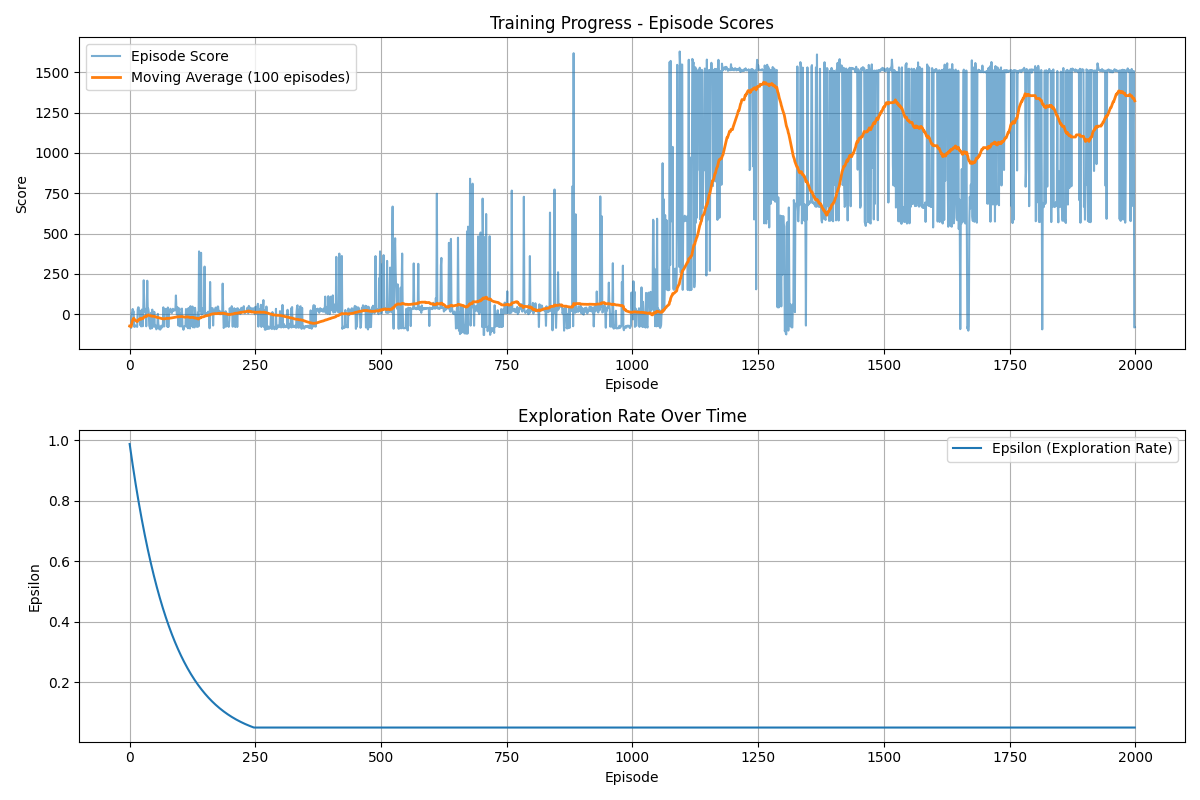
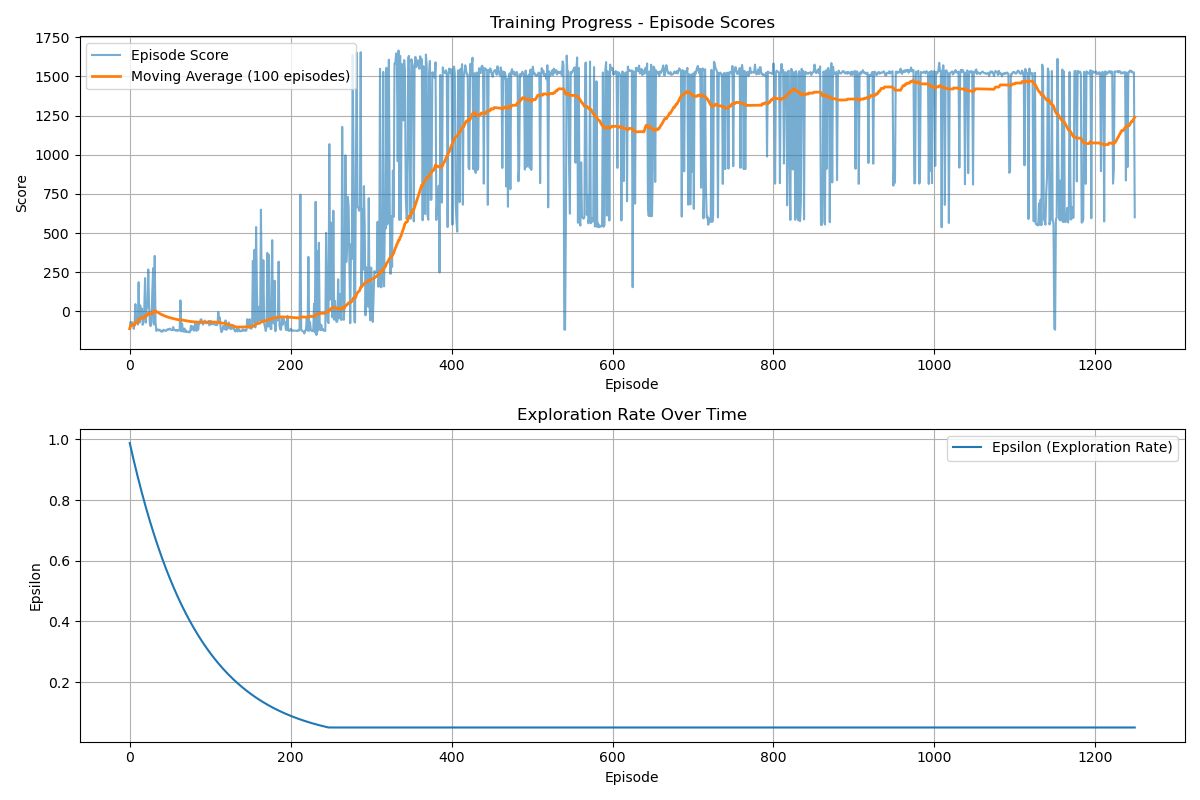
zebra crossing support

diff --git a/gym_crossroad_env.py b/gym_crossroad_env.py
@@ -48,6 +48,9 @@ class CrossroadGymEnv(gym.Env):
         self.step_count = 0
         self.last_distance_to_target = None
         self.collision_detected = False
+        # Zebra/crosswalk tracking
+        self.last_zebra_distance = None
+        self.steps_since_zebra_progress = 0
         
         # Roundabout/Sequential navigation state
         self.current_waypoint_index = 0
@@ -254,6 +257,53 @@ class CrossroadGymEnv(gym.Env):
         elif min_car_distance > 2.5:
             reward += 0.05  # Reduced from 0.2
 
+        # ---- 3b. ZEBRA / CROSSWALK SHAPING ----
+        # Encourage the agent to find and use zebra crossings when in the
+        # center intersection. If the agent is in the intersection and not on
+        # a zebra, give a small penalty but a shaping reward for progress
+        # toward the nearest zebra so it keeps moving to find one.
+        zebra_half_width = 1.8
+        intersection_center_size = 3.5
+        in_center = abs(agent_x) < intersection_center_size and abs(agent_y) < intersection_center_size
+        on_zebra = self._is_on_zebra(agent_pos)
+
+        if in_center:
+            if on_zebra:
+                # Reward staying on the zebra (keeps agent aligned while crossing)
+                reward += 0.5
+                reward += 0.02  # tiny survival/movement bonus while on zebra
+                # Clear zebra progress tracking
+                self.last_zebra_distance = None
+                self.steps_since_zebra_progress = 0
+            else:
+                # Off-zebra in center: encourage movement toward zebra, penalize idling
+                reward -= 0.20
+                if action == 0:
+                    reward -= 0.5
+
+                # Shaped reward: progress toward nearest zebra
+                dist_to_zebra = self._distance_to_nearest_zebra(agent_pos)
+                if self.last_zebra_distance is None:
+                    self.last_zebra_distance = dist_to_zebra
+                    self.steps_since_zebra_progress = 0
+                else:
+                    dz = self.last_zebra_distance - dist_to_zebra
+                    # Positive dz => getting closer to a zebra
+                    reward += dz * 6.0
+                    if dz > 0:
+                        self.steps_since_zebra_progress = 0
+                    else:
+                        self.steps_since_zebra_progress += 1
+                    self.last_zebra_distance = dist_to_zebra
+
+                # If no zebra progress for many steps, add a penalty to force turning
+                if self.steps_since_zebra_progress > 8:
+                    reward -= 0.2
+        else:
+            # Reset zebra tracking when outside center
+            self.last_zebra_distance = None
+            self.steps_since_zebra_progress = 0
+
         # ---- 4. WAYPOINT REACHED ----
         tolerance = PEDESTRIAN_CONFIG.get('waypoint_tolerance', 1.5)
         reached = dist_to_target < tolerance
@@ -342,6 +392,58 @@ class CrossroadGymEnv(gym.Env):
         
         return min_dist
 
+    def _is_on_zebra(self, pos):
+        """Return the zebra crossing name if `pos` is within a zebra area, else None.
+
+        Crosswalks are defined at x or y ~= +/-3.5 (see `config.py`). We use
+        a small band (`zebra_band_half`) around those lines and a half-width
+        (`zebra_half_width`) for the zebra width.
+        """
+        zebra_half_width = 1.8
+        zebra_band_half = 1.2
+        x, y = pos[0], pos[1]
+
+        # North
+        if (3.5 - zebra_band_half) <= y <= (3.5 + zebra_band_half) and abs(x) <= zebra_half_width:
+            return 'north'
+        # South
+        if (-3.5 - zebra_band_half) <= y <= (-3.5 + zebra_band_half) and abs(x) <= zebra_half_width:
+            return 'south'
+        # East
+        if (3.5 - zebra_band_half) <= x <= (3.5 + zebra_band_half) and abs(y) <= zebra_half_width:
+            return 'east'
+        # West
+        if (-3.5 - zebra_band_half) <= x <= (-3.5 + zebra_band_half) and abs(y) <= zebra_half_width:
+            return 'west'
+
+        return None
+
+    def _distance_to_nearest_zebra(self, pos):
+        """Compute Euclidean distance from `pos` to the nearest point on any zebra crossing."""
+        zebra_half_width = 1.8
+        x, y = pos[0], pos[1]
+        candidates = []
+
+        # North zebra (y = 3.5) — project x into zebra half width
+        nx = np.clip(x, -zebra_half_width, zebra_half_width)
+        candidates.append(((nx, 3.5), math.hypot(x - nx, y - 3.5)))
+
+        # South zebra (y = -3.5)
+        sx = np.clip(x, -zebra_half_width, zebra_half_width)
+        candidates.append(((sx, -3.5), math.hypot(x - sx, y + 3.5)))
+
+        # East zebra (x = 3.5)
+        ey = np.clip(y, -zebra_half_width, zebra_half_width)
+        candidates.append(((3.5, ey), math.hypot(x - 3.5, y - ey)))
+
+        # West zebra (x = -3.5)
+        wy = np.clip(y, -zebra_half_width, zebra_half_width)
+        candidates.append(((-3.5, wy), math.hypot(x + 3.5, y - wy)))
+
+        # Return minimum distance
+        dists = [c[1] for c in candidates]
+        return min(dists) if dists else float('inf')
+
     def step(self, action):
         """Execute action and return next state."""
         # Map action to movement
@@ -369,39 +471,16 @@ class CrossroadGymEnv(gym.Env):
         # Check if agent is in the center intersection area
         in_center = abs(new_pos[0]) < intersection_center_size and abs(new_pos[1]) < intersection_center_size
         
-        # if in_center:
-            # In center intersection - must stay on one of the zebra crossing paths
-            # Check which crossing path the agent is closest to
-            # dist_to_north = abs(new_pos[1] - 3.5)
-            # dist_to_south = abs(new_pos[1] + 3.5)
-            # dist_to_east = abs(new_pos[0] - 3.5)
-            # dist_to_west = abs(new_pos[0] + 3.5)
-            
-            # min_dist = min(dist_to_north, dist_to_south, dist_to_east, dist_to_west)
-            
-            # # Force agent onto the nearest zebra crossing path
-            # if min_dist == dist_to_north or min_dist == dist_to_south:
-            #     # On North/South path - constrain x to zebra width
-            #     new_pos[0] = np.clip(new_pos[0], -zebra_half_width, zebra_half_width)
-            # elif min_dist == dist_to_east or min_dist == dist_to_west:
-            #     # On East/West path - constrain y to zebra width
-            #     new_pos[1] = np.clip(new_pos[1], -zebra_half_width, zebra_half_width)
-        
-        # # North/South zebra crossings - constrain x when in crossing band
-        # if (3.5 - zebra_band_half) <= new_pos[1] <= (3.5 + zebra_band_half):
-        #     # In north crosswalk - must stay within zebra width
-        #     new_pos[0] = np.clip(new_pos[0], -zebra_half_width, zebra_half_width)
-        # elif (-3.5 - zebra_band_half) <= new_pos[1] <= (-3.5 + zebra_band_half):
-        #     # In south crosswalk - must stay within zebra width
-        #     new_pos[0] = np.clip(new_pos[0], -zebra_half_width, zebra_half_width)
-        
-        # # East/West zebra crossings - constrain y when in crossing band
-        # if (3.5 - zebra_band_half) <= new_pos[0] <= (3.5 + zebra_band_half):
-        #     # In east crosswalk - must stay within zebra width
-        #     new_pos[1] = np.clip(new_pos[1], -zebra_half_width, zebra_half_width)
-        # elif (-3.5 - zebra_band_half) <= new_pos[0] <= (-3.5 + zebra_band_half):
-        #     # In west crosswalk - must stay within zebra width
-        #     new_pos[1] = np.clip(new_pos[1], -zebra_half_width, zebra_half_width)
+        # If agent is on a zebra crossing, constrain the perpendicular
+        # coordinate so the agent stays within the zebra band while
+        # crossing. If in the center but off-zebra, do not force movement
+        # but reward shaping will encourage finding the zebra.
+        crossing = self._is_on_zebra(new_pos)
+        if crossing is not None:
+            if crossing in ('north', 'south'):
+                new_pos[0] = np.clip(new_pos[0], -zebra_half_width, zebra_half_width)
+            else:
+                new_pos[1] = np.clip(new_pos[1], -zebra_half_width, zebra_half_width)
         
         # Boundary constraints (keep pedestrian in reasonable area)
         new_pos[0] = np.clip(new_pos[0], -5.0, 5.0)
